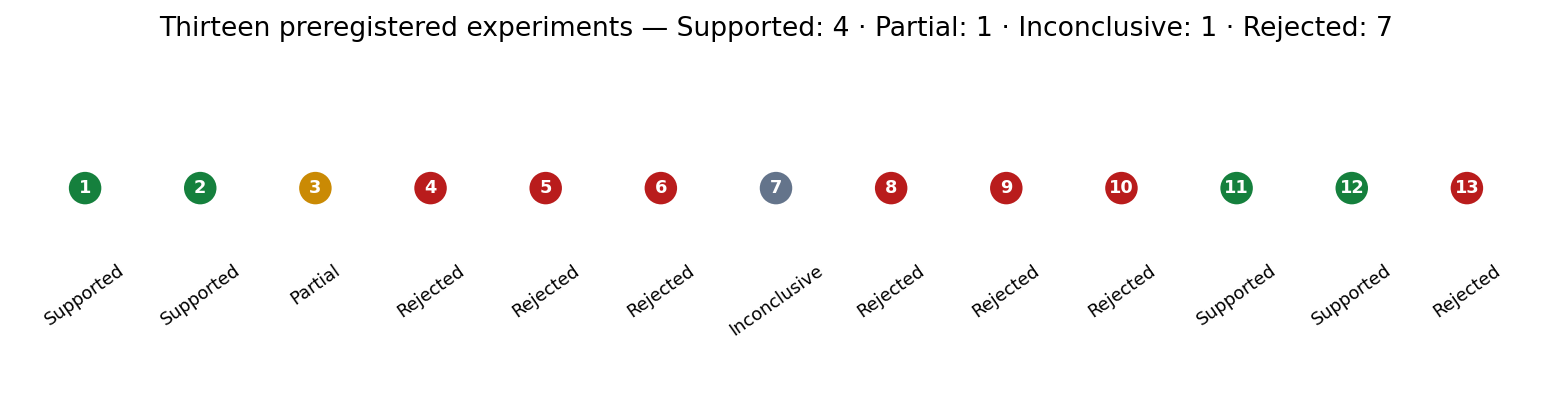
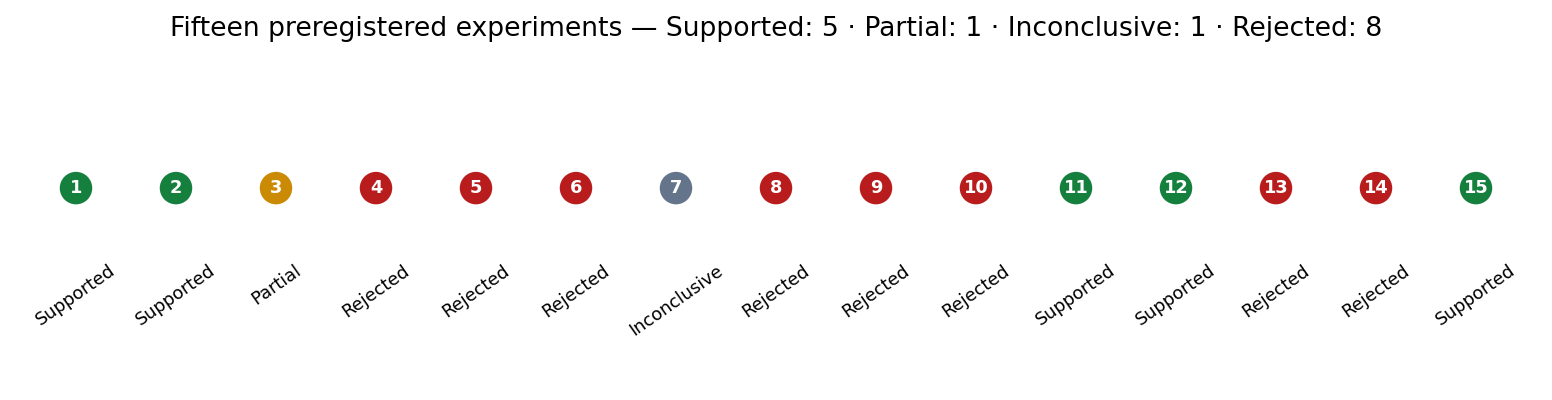
Complete coverage and geography bridge cycles

diff --git a/visualizations/repo_overview.py b/visualizations/repo_overview.py
@@ -14,13 +14,13 @@ for i,g in enumerate(['predictor','placebo_all']):
 ax.axhline(0,color='black',lw=.7);ax.set_xticks(x,labels);ax.set_ylabel('Mean long–short return (% per month)');ax.set_title('Publication decay is concentrated in claimed predictors');ax.legend(frameon=False);fig.tight_layout();fig.savefig(OUT/'publication_decay.png',bbox_inches='tight');plt.close(fig)
 
 # Figure 2: experiment verdict history. Keep every ID explicit so omissions are visible in review.
-verdicts={1:'Supported',2:'Supported',3:'Partial',4:'Rejected',5:'Rejected',6:'Rejected',7:'Inconclusive',8:'Rejected',9:'Rejected',10:'Rejected',11:'Supported',12:'Supported',13:'Rejected'}
+verdicts={1:'Supported',2:'Supported',3:'Partial',4:'Rejected',5:'Rejected',6:'Rejected',7:'Inconclusive',8:'Rejected',9:'Rejected',10:'Rejected',11:'Supported',12:'Supported',13:'Rejected',14:'Rejected',15:'Supported'}
 palette={'Supported':'#15803d','Partial':'#ca8a04','Rejected':'#b91c1c','Inconclusive':'#64748b'}
 fig,ax=plt.subplots(figsize=(9.8,2.6));ids=np.array(list(verdicts));labels=list(verdicts.values())
 ax.scatter(ids,[1]*len(ids),s=260,c=[palette[v] for v in labels],edgecolor='white',linewidth=1.5)
 for i,v in verdicts.items():ax.text(i,1.0,str(i),ha='center',va='center',color='white',weight='bold',fontsize=8);ax.text(i,.91,v,ha='center',va='top',rotation=35,fontsize=8)
 counts=pd.Series(labels).value_counts();summary=' · '.join(f'{k}: {counts.get(k,0)}' for k in ['Supported','Partial','Inconclusive','Rejected'])
-ax.set_xlim(.4,13.6);ax.set_ylim(.76,1.17);ax.set_yticks([]);ax.set_xticks([]);ax.spines['left'].set_visible(False);ax.spines['bottom'].set_visible(False);ax.set_title(f'Thirteen preregistered experiments — {summary}');fig.tight_layout();fig.savefig(OUT/'experiment_verdicts.png',bbox_inches='tight');plt.close(fig)
+ax.set_xlim(.4,15.6);ax.set_ylim(.76,1.17);ax.set_yticks([]);ax.set_xticks([]);ax.spines['left'].set_visible(False);ax.spines['bottom'].set_visible(False);ax.set_title(f'Fifteen preregistered experiments — {summary}');fig.tight_layout();fig.savefig(OUT/'experiment_verdicts.png',bbox_inches='tight');plt.close(fig)
 
 # Figure 3: raw versus adjusted VW association
 groups=pd.read_csv(ROOT/'experiments/EXP-009-weighting-and-decay/results/groups.csv').set_index('Stock Weight');regs=pd.read_csv(ROOT/'experiments/EXP-009-weighting-and-decay/results/regressions.csv');adj=regs[(regs.spec=='primary')&(regs.term=='vw')].iloc[0]

diff --git a/experiments/EXP-015-us-inclusion-global-decay/results.md b/experiments/EXP-015-us-inclusion-global-decay/results.md
@@ -1,0 +1,30 @@
+# EXP-015 — US inclusion strengthens standardized global publication decay
+
+## Verdict
+
+**HYP-015 survives its registered rules, with an important inference limitation.** All four predictions pass and the falsifier does not fire, but the direct paired location-gap estimate is imprecise.
+
+## Results
+
+On 126 common factors, JKP `world` post-publication decay is **-0.096 percentage points per month** (t = -2.17), versus -0.037 (t = -0.55) in `world_ex_us`. The -0.059 pp gap clears P1's -0.05 economic threshold. World post-publication minus post-sample is -0.113 pp (t = -2.29), and 66.7% of factors decline. Significant-factor and equal-factor-weight gaps have the registered negative direction.
+
+The direct factor-month `world - world_ex_us` fixed-effect post-publication gap is -0.055 pp but has t = -1.27. P1 did not preregister a significance threshold for this gap, so the hypothesis passes as written; scientifically, the weak paired inference limits confidence.
+
+## Adversarial review
+
+- `world` is an aggregate containing US stocks, not a standalone US portfolio. Its difference from world-ex-US depends on changing country weights.
+- Common metadata and construction reduce—but do not eliminate—comparability concerns.
+- The result is consistent with US concentration of publication decay; it neither proves geography nor identifies arbitrage.
+- No trading quantities, costs, flows, holdings, lending conditions, or price impact are observed.
+
+## What was learned
+
+Combined with EXP-014, the evidence moves away from a simple truncated-history explanation and toward a US-concentrated effect within JKP's standardized construction. The paired uncertainty prevents treating that interpretation as settled. Direct quantities remain the next claim-bearing priority.
+
+## Reproduction
+
+Run `python experiments/EXP-015-us-inclusion-global-decay/analysis.py` against the pinned JKP files.
+
+## Connections
+
+HYP-015 · EXP-013 · EXP-014 · Jensen, Kelly, and Pedersen (2023)

diff --git a/experiments/EXP-014-coverage-matched-us-decay/results.md b/experiments/EXP-014-coverage-matched-us-decay/results.md
@@ -1,0 +1,21 @@
+# EXP-014 — Historical truncation does not explain weak international decay
+
+## Verdict
+
+**HYP-014 is rejected and its falsifier fires.** Starting the C&Z US panel in 1986 makes the post-publication coefficient more negative, not 25% smaller.
+
+## Results
+
+The contemporaneously recomputed full-history coefficient is -0.369 percentage points per month (t = -6.49). With a 1986 floor it is **-0.415** (t = -5.67), 12.3% larger in absolute magnitude; with a 1990 floor it grows to -0.473 (t = -5.42). The clear-predictor 1986 result is also -0.472 (t = -5.84). P1, P2, and P4 fail; only P3's negative second-step contrast survives.
+
+## Adversarial review and learning
+
+This rejects a simple history-length explanation for EXP-013. It does not make C&Z and JKP comparable: factor definitions, universes, breakpoints, and portfolio aggregation still differ. Restriction also changes eligible factors and emphasizes later cohorts. The useful result is narrow: JKP's mainly post-1986 coverage cannot explain its smaller ex-US coefficient merely by truncating the C&Z time axis.
+
+## Reproduction
+
+Run `python experiments/EXP-014-coverage-matched-us-decay/analysis.py` against the pinned C&Z files.
+
+## Connections
+
+HYP-014 · EXP-001 · EXP-013 · EXP-015

diff --git a/research_journal/2026-07-17-coverage-and-geography-bridge.md b/research_journal/2026-07-17-coverage-and-geography-bridge.md
@@ -1,0 +1,17 @@
+# 2026-07-17 — Coverage fails; US inclusion matters, imprecisely
+
+Two AI-led cycles attacked the comparability problem exposed by EXP-013. EXP-014 asked whether JKP's mainly 1986-forward history mechanically weakened decay. It did not: applying the same floor to C&Z strengthened the coefficient from -0.369 to -0.415 percentage points per month. The registered attenuation hypothesis was rejected and its falsifier fired.
+
+EXP-015 then held JKP factor construction fixed and changed US inclusion. World decay was -0.096 pp/month (t = -2.17), compared with -0.037 ex-US. All registered predictions passed, including factor breadth and robustness directions. But the direct paired gap had t = -1.27. The disciplined reading is “consistent with US concentration,” not “geography proved.”
+
+## Human growth digest
+
+- **Concept:** a hypothesis can pass its written rule while a more direct diagnostic remains weak; report both.
+- **Mistake to avoid:** calling a world-minus-ex-US aggregate a pure US portfolio.
+- **Question to carry forward:** what observable trading quantity would distinguish investor response from portfolio-construction differences?
+
+Researcher absent beyond requesting cycles; attribution is AI-led.
+
+## Connections
+
+EXP-013 · EXP-014 · EXP-015 · `researcher_scorecard.md`

diff --git a/knowledge_graph/anomaly-decay-thread.md b/knowledge_graph/anomaly-decay-thread.md
@@ -43,6 +43,13 @@
                                                        │
                                                        ▼
                                                [EXP-010: paired EW/VW decay] ✗
+                                                       │
+                                                       ▼
+                                               [EXP-013: world-ex-US transport] ✗
+                                                       │ comparability attacked by
+                                                       ▼
+                                               [EXP-014: 1986 coverage floor] ✗
+                                               [EXP-015: JKP world vs ex-US] ✓ bounded
 ```
 
 ## Edge notes
@@ -62,3 +69,6 @@
 - EXP-004 → EXP-008 (2026-07-14): direct predictor-composite crowding also fails. Mean correlation change −0.024 (t=−0.98); 120-month change is significantly negative. Registered placebo control was infeasible, so the design is not confirmatory.
 - EXP-005 → EXP-009 (2026-07-14): raw VW decay 94.7% versus EW 56.4%, but adjusted VW coefficient +0.152 (t=0.50). Requires within-signal alternative portfolios; between-signal weighting labels are composition-confounded.
 - EXP-009 → EXP-010 (2026-07-15): official alternative portfolios remove between-signal composition, but the paired VW-minus-EW decay difference (+0.141, t=1.76) misses the registered inference rule. The levels DiD has the wrong sign and positive breadth is exactly 50%. Weighting remains an unstable proxy; seek direct quantities or external replication.
+- EXP-010 → EXP-013 (2026-07-16): JKP world-ex-US external replication rejects transport of the strong US magnitude. Post-publication decay is -0.037 percentage points per month (t=-0.55); the negative second-step contrast is suggestive but its registered joint rule fails.
+- EXP-013 → EXP-014 (2026-07-17): imposing JKP's 1986 coverage floor on C&Z strengthens decay from -0.369 to -0.415, firing the falsifier. Simple time-axis truncation cannot explain the external gap.
+- EXP-013 → EXP-015 (2026-07-17): with JKP construction fixed, world decay (-0.096, t=-2.17) exceeds world-ex-US (-0.037, t=-0.55). Registered rules pass, but the paired world-minus-ex-US gap has t=-1.27. Evidence is consistent with US concentration, not decisive geography or arbitrage identification.

diff --git a/failed_experiments/EXP-014-coverage-matched-us-decay.md b/failed_experiments/EXP-014-coverage-matched-us-decay.md
@@ -1,0 +1,9 @@
+# EXP-014 — Coverage-matched US publication decay
+
+**Rejected 2026-07-17.** A 1986 history floor increased C&Z post-publication decay from -0.369 to -0.415 percentage points per month, firing the registered falsifier. Historical truncation alone does not explain EXP-013's weak ex-US magnitude.
+
+Full record: [`experiments/EXP-014-coverage-matched-us-decay/results.md`](../experiments/EXP-014-coverage-matched-us-decay/results.md).
+
+## Connections
+
+HYP-014 · EXP-001 · EXP-013 · EXP-015

diff --git a/successful_experiments/EXP-015-us-inclusion-global-decay.md b/successful_experiments/EXP-015-us-inclusion-global-decay.md
@@ -1,0 +1,9 @@
+# EXP-015 — US inclusion in standardized global decay
+
+**Supported with bounded confidence 2026-07-17.** JKP world decay was -0.096 percentage points per month (t = -2.17), 0.059 pp more negative than world-ex-US. All registered rules passed, but the direct paired gap had t = -1.27, limiting the geographic interpretation.
+
+Full record: [`experiments/EXP-015-us-inclusion-global-decay/results.md`](../experiments/EXP-015-us-inclusion-global-decay/results.md).
+
+## Connections
+
+HYP-015 · EXP-013 · EXP-014

diff --git a/README.md b/README.md
@@ -8,7 +8,7 @@ It is not a trading bot, an alpha claim, or financial advice. Its objective is t
 
 ## Evidence at a glance
 
-Thirteen experiments have been preregistered and completed. Ten use the Chen–Zimmermann US panel, two are synthetic calibrations of research discipline, and one is an external replication using JKP global factors. The strongest market result is not a strategy: it is a sequence of attempts to explain why published return predictors weaken.
+Fifteen experiments have been preregistered and completed. Eleven use the Chen–Zimmermann US panel, two are synthetic calibrations of research discipline, and two use JKP global factors. The strongest market result is not a strategy: it is a sequence of attempts to explain why published return predictors weaken.
 
 ![Predictors decay after publication while published placebos do not show the same pattern](visualizations/generated/publication_decay.png)
 
@@ -28,6 +28,8 @@ That distribution is intentional. A laboratory where nearly every hypothesis sur
 - A paired within-signal EW/VW test also fails: its mean difference points toward more VW decay but is imprecise, has no cross-signal breadth, and conflicts with the levels discriminator.
 - Synthetic null calibrations show why this lab records search breadth: the naive pass rate reached 99.99% after 200 independent tries, while requiring untouched confirmation reduced idealized false claims from 5.145% to 0.274%. These are process results, not market evidence.
 - The first world-ex-US replication did not recover the US magnitude: its post-publication estimate was −0.037 percentage points per month (t = −0.55), so external validity remains unresolved and a universal arbitrage story is weaker.
+- Truncating the C&Z history to JKP's mainly 1986-forward coverage makes US decay larger, not smaller, rejecting a simple coverage explanation.
+- Under identical JKP construction, adding US stocks strengthens global decay to −0.096 percentage points per month (t = −2.17), but the direct paired gap is imprecise (t = −1.27); US concentration is suggested, not established.
 
 ![Raw weighting difference becomes imprecise after controls](visualizations/generated/weighting_gap.png)
 
@@ -103,7 +105,7 @@ CI runs the data-independent unit suite and compilation checks. Local verificati
 |---|---:|---|
 | Scientific honesty | A− | Registration, visible failures, bounded language |
 | Empirical identification | B− | Strong controls, but one US panel and coarse dates |
-| Research breadth | C | Thirteen experiments across US, synthetic, and global data families; one dominant question |
+| Research breadth | C | Fifteen experiments across US, synthetic, and global data families; one dominant question |
 | Engineering | C+ | Tests, CI, canonical loaders, fingerprints; migration incomplete |
 | Alpha/trading readiness | D | Gross returns, no costs/capacity/risk model |
 

diff --git a/researcher_scorecard.md b/researcher_scorecard.md
@@ -4,7 +4,7 @@
 
 **Researcher:** Richard
 **Started:** 2026-07-09
-**Last updated:** 2026-07-16 (EXP-013 — Argus-executed)
+**Last updated:** 2026-07-17 (EXP-014/015 — Argus-executed)
 
 ---
 
@@ -52,7 +52,7 @@ Mastery scale: `0 — unaware` · `1 — heard of it` · `2 — can follow` · `
 | Replications completed | 0 |
 | Novel experiments | 0 |
 | Robustness analyses | 0 |
-| Negative results documented | 7 (EXP-004/005/006/007/008/009/010 at lab level; researcher not yet author of one) |
+| Negative results documented | 8 (EXP-004/005/006/007/008/009/010/014 at lab level; researcher not yet author of one) |
 | Statistical mistakes caught before execution | 0 |
 
 ## Scientific Judgment — Milestone Log
@@ -66,6 +66,7 @@ Record dated, concrete examples where the researcher: changed their mind after e
 - **2026-07-15 — A paired repair still rejects the mechanism proxy.** EXP-010 replaced EXP-009's between-signal EW/VW comparison with official within-signal pairs. The primary mean cleared its economic threshold but not its inference rule; the levels sign and 50% breadth contradicted the story. The lab treated the preregistered threshold as binding despite a significant winsorized check. No researcher judgment event: researcher absent.
 - **2026-07-16 — Search and holdout calibration.** EXP-011/012 quantified how search breadth inflates naive significance and how an untouched confirmation layer controls null false claims. Both survived their registered synthetic bounds; the lab explicitly withheld market and alpha interpretations. No researcher judgment event: researcher absent.
 - **2026-07-16 — External replication rejects transport.** EXP-013 found small, imprecise negative post-publication estimates in world-ex-US, developed, and emerging factor aggregates. The lab rejected the hypothesis despite a suggestive post-publication-minus-post-sample contrast because the registered joint rule failed. No researcher judgment event: researcher absent.
+- **2026-07-17 — Coverage rejected; geographic bridge survives cautiously.** EXP-014's falsifier fired because a 1986 floor strengthened US decay. EXP-015 passed all written rules, while the lab foregrounded its unregistered-but-more-direct paired gap's t = -1.27 rather than allowing the pass label to imply settled geography. No researcher judgment event: researcher absent.
 
 ## Contribution Attribution Ledger
 
@@ -85,5 +86,6 @@ Each research cycle gets one of four levels (defined in the charter §Contributi
 | 2026-07-15 | EXP-010 within-signal EW/VW decay | AI-led | Researcher requested another Argus cycle; Argus selected the queued priority, preregistered, executed, adversarially reviewed, and rejected it. |
 | 2026-07-16 | EXP-011/012 search breadth and untouched confirmation | AI-led | Researcher requested a couple more cycles; Argus selected the queued methodological branch, reviewed the literature, preregistered both simulations, executed them, and bounded the interpretation. |
 | 2026-07-16 | EXP-013 non-US publication-decay replication | AI-led | Researcher asked Argus to keep running while retaining focus; Argus acquired the JKP public global factor family, preregistered the external test before computing windows, executed it, and rejected transport of the strong US magnitude. |
+| 2026-07-17 | EXP-014/015 coverage and US-inclusion bridge tests | AI-led | Researcher requested more cycles and delegated selection, design, execution, and interpretation. Argus rejected history truncation, found a preregistered US-inclusion pattern, and bounded it by the imprecise paired gap. |
 
 **Operating target:** research proceeds autonomously when the researcher is busy. Human input is welcomed but never required; contribution labels must continue to distinguish topic direction from hypothesis design and execution.

diff --git a/ideas/hypothesis_queue.md b/ideas/hypothesis_queue.md
@@ -11,5 +11,7 @@ Scores are 1–5; confounding risk is worse when higher. Promotion requires a da
 | Publication arbitrage via short interest | 5 | 2 | 4 | 5 | 5 | 3 | priority data acquisition |
 | Within-signal EW/VW decay | 5 | 5 | 3 | 4 | 4 | 2 | completed as EXP-010; rejected |
 | Non-US publication decay | 5 | 5 | 4 | 4 | 5 | 3 | completed as EXP-013; rejected |
+| Coverage-matched US decay | 5 | 5 | 3 | 3 | 4 | 2 | completed as EXP-014; rejected |
+| US inclusion in JKP world decay | 5 | 5 | 3 | 3 | 4 | 3 | completed as EXP-015; supported, paired gap imprecise |
 
-Next claim-bearing priority: acquire direct publication-arbitrage quantities. EXP-013 supplied the second data family but did not transport the strong US magnitude. Any follow-up must distinguish genuine geographic attenuation from JKP/C&Z construction differences; EXP-011/012 remain methodological calibrations, not alpha claims.
+Next claim-bearing priority: acquire direct publication-arbitrage quantities. EXP-014 rejects simple history truncation and EXP-015 suggests US inclusion strengthens decay under JKP construction, but its paired gap is imprecise. Direct quantities or a standalone construction-matched US portfolio are required; EXP-011/012 remain methodological calibrations, not alpha claims.